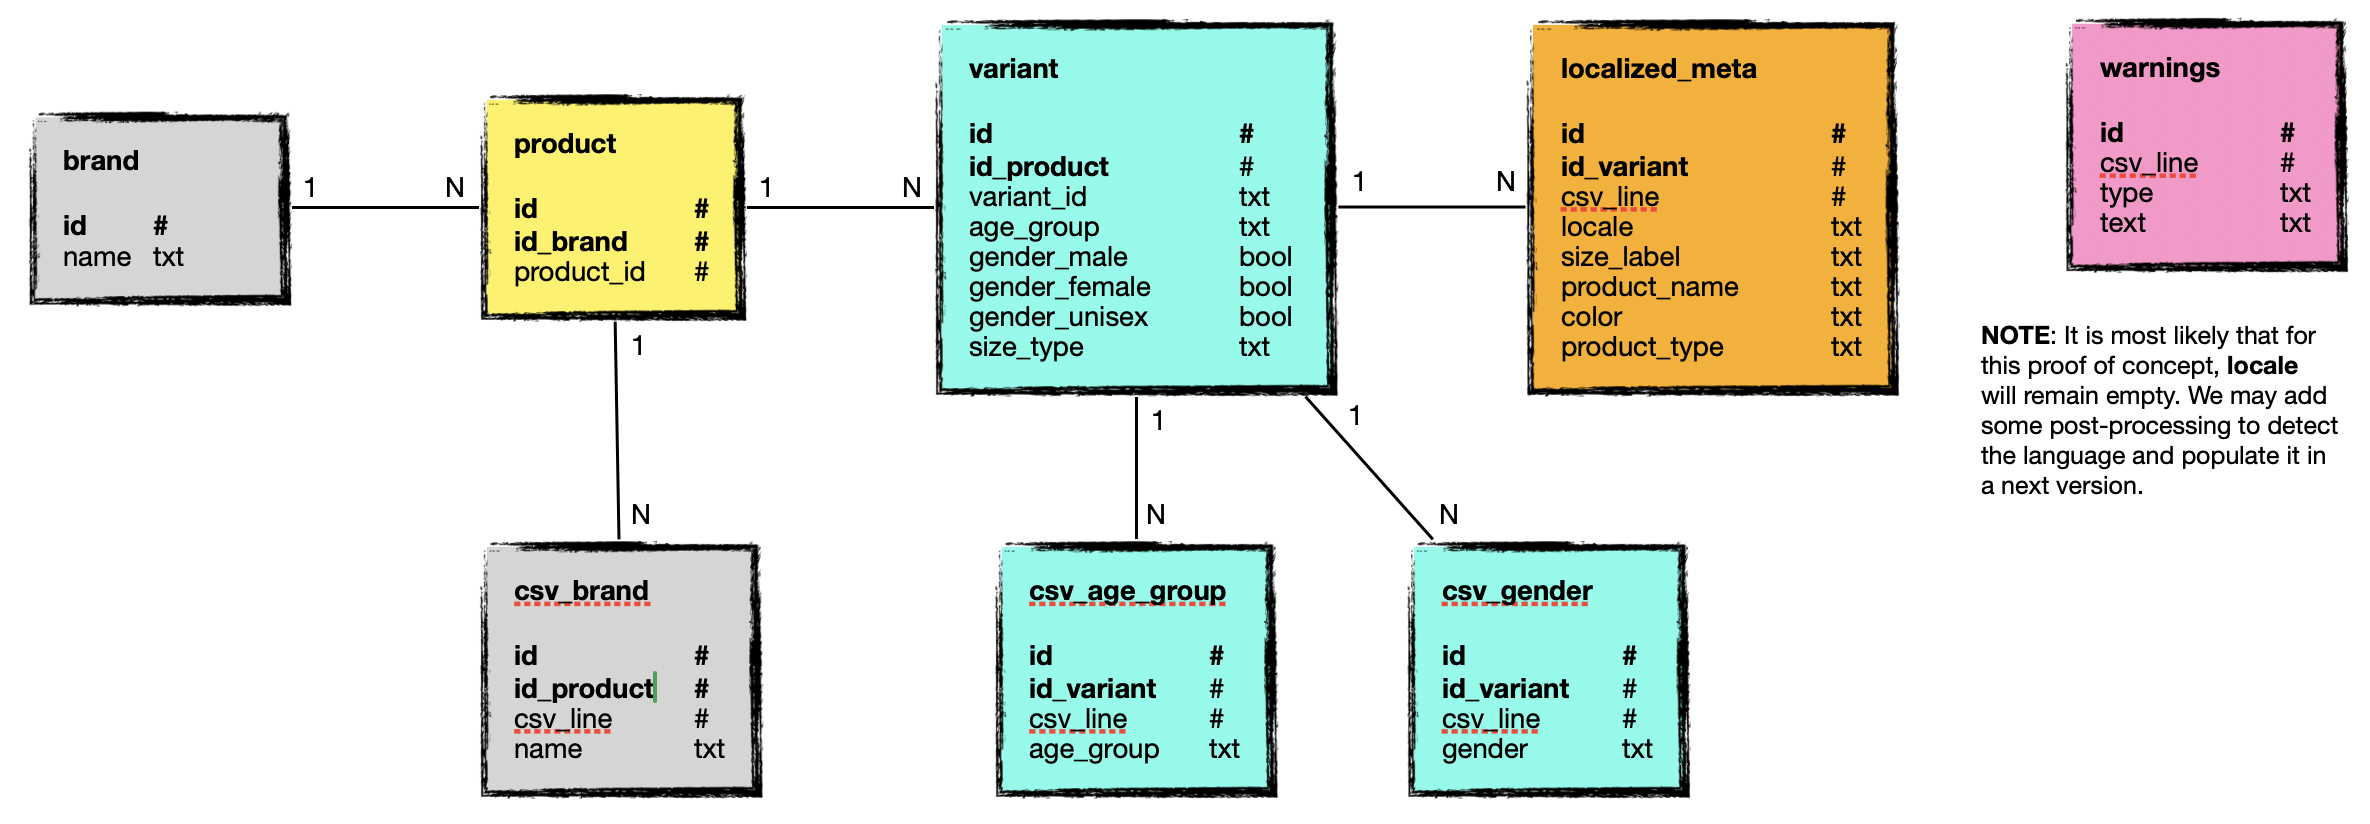
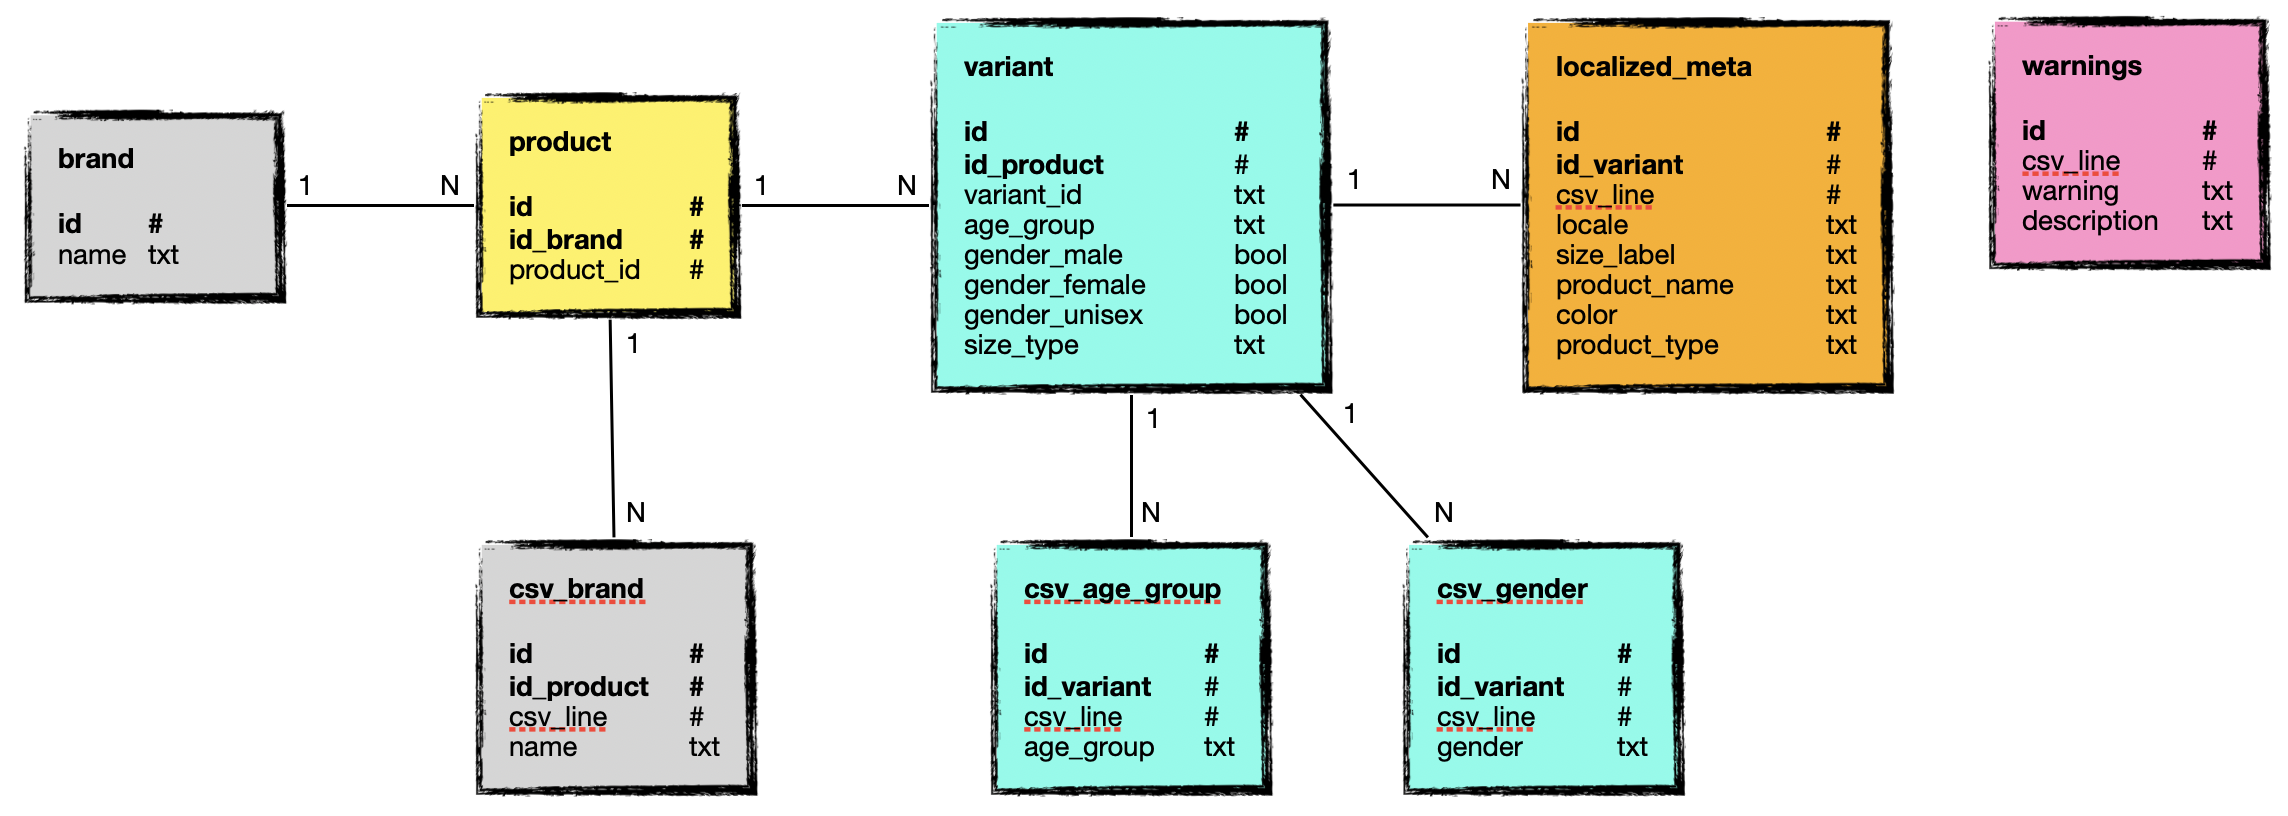
improved warnings table content + wip choosing reference brand name and detecting non matching brand names

diff --git a/ingestor/src/main/java/ca/ulex/Ingestor.java b/ingestor/src/main/java/ca/ulex/Ingestor.java
@@ -12,12 +12,16 @@ import java.sql.PreparedStatement;
 import java.sql.ResultSet;
 import java.sql.SQLException;
 import java.util.*;
+import org.apache.commons.text.similarity.JaroWinklerSimilarity;
+import org.apache.commons.text.similarity.JaccardSimilarity;
 
 public class Ingestor
 {
     final static String[] LOCALES = {"zh-CN", "en", "fr", "de", "it", "ja", "ko", "pt", "ru", "es"};
     final static LanguageDetector detector = initializeLanguageDetector();
-    final static String WARNING_EMPTY_FIELD = "Line dropped: Empty field";
+    final static String WARNING_EMPTY_FIELD = "Line dropped: No content for field ";
+    final static String WARNING_INVALID_BRAND = "Line dropped: Brand name too different from others";
+    final static double SIMILARITY_THRESHOLD=0.8;
 
     public static void main(String[] args) {
         String dbUrl = System.getenv("INGESTOR_DB_URL");
@@ -75,11 +79,13 @@ public class Ingestor
             while ((line = csvReader.readNext()) != null) {
                 csvLine++;
 
-                if (hasEmptyField(line)) {
-                    insertWarning(dbConnection, csvLine, WARNING_EMPTY_FIELD);
+                int emptyField = hasEmptyField(line);
+                if (emptyField > 0) {
+                    insertWarning(dbConnection, csvLine, "WARNING_EMPTY_FIELD", WARNING_EMPTY_FIELD + emptyField);
                     linesDropped++;
                     continue;
                 }
+
                 linesIngested++;
 
                 int idProduct = insertProductAndBrand(dbConnection, productMap, brandMap, csvLine,
@@ -105,7 +111,7 @@ public class Ingestor
             }
 
             postProcessStartTime = System.currentTimeMillis();
-            findMostFrequentBrandNameForProducts(dbConnection);
+            postProcessBrandNamesForProducts(dbConnection);
             stopTime = System.currentTimeMillis();
 
         } catch (IOException | SQLException | CsvException e) {
@@ -113,15 +119,15 @@ public class Ingestor
             e.printStackTrace();
         }
 
-        System.out.println("\nTotal lines ingested: " + linesIngested);
+        System.out.println("Total lines ingested: " + linesIngested);
         System.out.println("Total lines dropped: " + linesDropped);
         System.out.println("Total elapsed time : " + Utils.formatTime(stopTime - startTime));
         System.out.println("    Ingestion      : " + Utils.formatTime(postProcessStartTime - startTime));
         System.out.println("    Post-process   : " + Utils.formatTime(stopTime - postProcessStartTime));
     }
 
-    public static void findMostFrequentBrandNameForProducts(Connection dbConnection) throws SQLException {
-        // Query to retrieve all product IDs and their associated csv_brand names
+    public static void postProcessBrandNamesForProducts(Connection dbConnection) throws SQLException {
+        System.out.println("\nPost processing...");
         String sql = "SELECT p.product_id, cb.name FROM product p JOIN csv_brand cb ON p.id = cb.id_product";
 
         try (PreparedStatement stmt = dbConnection.prepareStatement(sql);
@@ -143,9 +149,28 @@ public class Ingestor
 
             // Iterate through each product and determine the most frequent brand name
             for (String productId : productBrandFrequency.keySet()) {
-                String mostFrequentBrand = findMostFrequentBrand(productBrandFrequency.get(productId));
-                System.out.println("Product ID: " + productId + " - Most Frequent Brand Name: " + mostFrequentBrand +
-                        "  { " + productBrandFrequency.get(productId).keySet() + " }");
+                Map<String, Integer> brandMap = productBrandFrequency.get(productId);
+                if (brandMap.keySet().size() > 1) {
+                    String mostFrequentBrand = findMostFrequentBrand(brandMap);
+                    System.out.println("Product ID: " + productId + " - Most Frequent Brand Name: " + mostFrequentBrand +
+                            "  { " + brandMap.keySet() + " }");
+                    checkBrandNameDistance(brandMap.keySet());
+                }
+            }
+        }
+    }
+
+    private static void checkBrandNameDistance(Set<String> stringIntegerMap) {
+        for(String s1: stringIntegerMap) {
+            double similarity = 0;
+            for (String s2: stringIntegerMap) {
+                if (s1.equalsIgnoreCase(s2)) {
+                    continue;
+                }
+                similarity = Math.max(similarity, computeSimilarity(s1, s2));
+            }
+            if (similarity < SIMILARITY_THRESHOLD) {
+                System.out.println("Found outlier: " + s1 + " - {" + stringIntegerMap + "}");
             }
         }
     }
@@ -170,21 +195,51 @@ public class Ingestor
         return mostFrequentBrand;
     }
 
-    private static void insertWarning(Connection dbConnection, int csvLine, String description) throws SQLException, IOException {
-        String sql = "INSERT INTO warnings (csv_line, description) VALUES (?, ?)";
+    private static double computeSimilarity(String s1, String s2) {
+        String ss1 = s1.toLowerCase().replaceAll("[^a-z0-9]", "").trim();
+        String ss2 = s2.toLowerCase().replaceAll("[^a-z0-9]", "").trim();
+
+        if (isSubset(s1, s2) || isSubset(s2, s1)) {
+            return 1;
+        }
+        JaroWinklerSimilarity jaroWinkler = new JaroWinklerSimilarity();
+        double similarity1 = jaroWinkler.apply(ss1, ss2);
+        JaccardSimilarity jaccard = new JaccardSimilarity();
+        double similarity2 = jaccard.apply(ss2, ss1);
+
+        return Math.max(similarity1, similarity2);
+    }
+
+    public static boolean isSubset(String s1, String s2) {
+        Set<Character> set1 = toSet(s1.toLowerCase().replaceAll("[^a-z0-9]", "").trim());
+        Set<Character> set2 = toSet(s2.toLowerCase().replaceAll("[^a-z0-9]", "").trim());
+        return set2.containsAll(set1);
+    }
+
+    private static Set<Character> toSet(String str) {
+        Set<Character> set = new HashSet<>();
+        for (char c : str.toCharArray()) {
+            set.add(c);
+        }
+        return set;
+    }
+
+    private static void insertWarning(Connection dbConnection, int csvLine, String warning, String description) throws SQLException, IOException {
+        String sql = "INSERT INTO warnings (csv_line, warning, description) VALUES (?, ?, ?)";
         PreparedStatement stmt = dbConnection.prepareStatement(sql);
         stmt.setInt(1, csvLine);
-        stmt.setString(2, description);
+        stmt.setString(2, warning);
+        stmt.setString(3, description);
         stmt.executeUpdate();
     }
 
-    private static boolean hasEmptyField(String[] line) {
-        for (String str : line) {
-            if (str == null || str.isEmpty()) {
-                return true;
+    private static int hasEmptyField(String[] line) {
+        for (int i = 0; i < line.length; i++) {
+            if (line[i] == null || line[i].isEmpty()) {
+                return (i+1);
             }
         }
-        return false;
+        return -1;
     }
 
     private static int insertProductAndBrand(Connection dbConnection, Map<String, Integer> productMap,

diff --git a/ingestor/src/main/java/ca/ulex/Utils.java b/ingestor/src/main/java/ca/ulex/Utils.java
@@ -40,7 +40,7 @@ public class Utils
         if (input == null || input.isEmpty()) {
             return input; // Return as is if input is null or empty
         }
-        String lowerCaseString = input.toLowerCase();
+        String lowerCaseString = input.toLowerCase().trim();
         return Character.toUpperCase(lowerCaseString.charAt(0)) + lowerCaseString.substring(1);
     }
 
